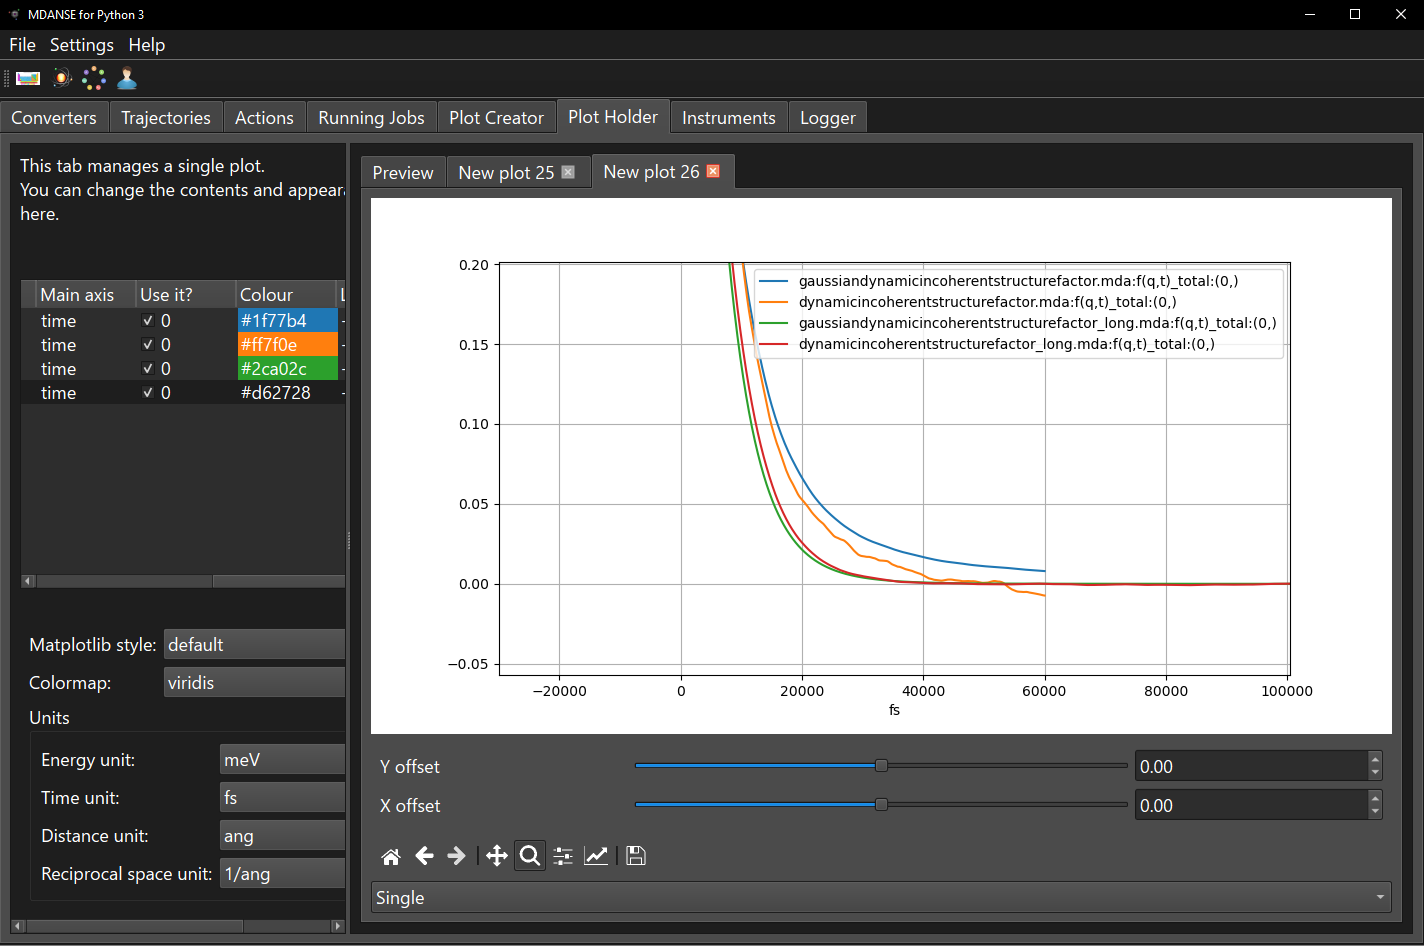
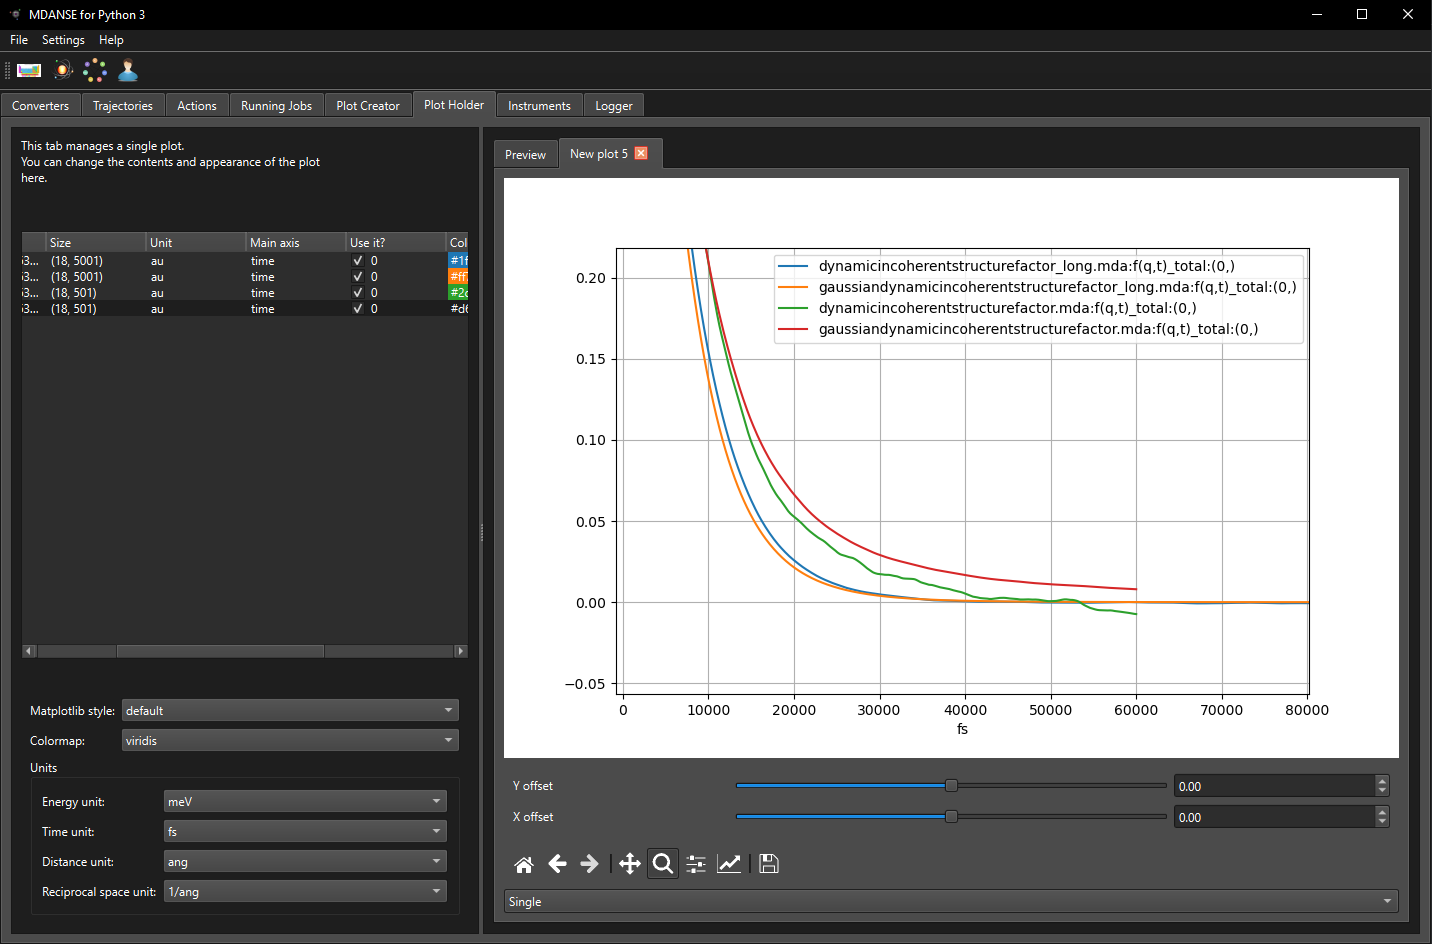
updated screenshots and question 2

diff --git a/tutorials/tutorial3-quasielastic-neutron-scattering/README.md b/tutorials/tutorial3-quasielastic-neutron-scattering/README.md
@@ -161,10 +161,11 @@ $q = 10$.
     <img width="800" src="pictures/cov_comparison.png"/>
 </p>
 
-Even though our first DISF and GDISF results looked OK we can see that now 
+Even though our first DISF and GDISF results looked OK we can see now 
 that they weren't long enough for $q = 10$. Proper convergence testing 
 is a must for these scattering related calculations. 
-Compare the differences for the other values of $q$. We will assume 
+Compare the differences for the other values of $q$ and have a look at 
+how this affected the `s(q,w)` results. We will assume 
 that the `*_long.mda` results are converged and continue with the rest of the 
 tutorial. Plot the `s(q,w)` for the DISF and GDISF calculations and compare the 
 results for different values of $q$.
@@ -173,15 +174,15 @@ results for different values of $q$.
     <img width="800" src="pictures/disf_gdisf_small.png"/>
 </p>
 <p align="center">
+    <img width="800" src="pictures/disf_gdisf_med.png"/>
+</p>
+<p align="center">
     <img width="800" src="pictures/disf_gdisf_large.png"/>
 </p>
 
-**Question 2**: The atoms in our liquid Argon trajectory should behave 
-like particle undergoing brownian motion, looking at the 3D view 
-visually appears to confirm this. Given that the Gaussian approximation 
-is exact for a system of particles undergoing brownian motion why do we 
-still see differences between our DISF and GDISF calculations?
-
+**Question 2**: Visually it looks like the best agreements between the 
+DISF and GDISF are obtained for the smallest and largest values of $q$. 
+Why does GDISF perform well for these values of $q$?
 
 # Answers
 
@@ -191,8 +192,9 @@ For an isotropic monoatomic system of free particles
 ```math
 \langle d^{2}(t) \rangle = \frac{1}{3} \langle \vert \vec{r}(t) - \vec{r}(0) \vert^2 \rangle.
 ```
-By noting that $\vert \vec{r}(t) - \vec{r}(0) \vert^2 = (v t)^2$ where $v$ is the speed for a given
-particle we can then integrate $(v t)^2$ over the Maxwell-Boltzmann distribution so that
+By noting that since free particles move in a straight line, 
+$\vert \vec{r}(t) - \vec{r}(0) \vert^2 = (v t)^2$ where $v$ is the speed for a given
+particle. We can then integrate $(v t)^2$ over the Maxwell-Boltzmann distribution so that
 ```math
 \langle d^{2}(t) \rangle = \frac{t^2}{3} \int_{0}^{\infty} \mathrm{d}v \, v^2 f(v)
 ```
@@ -222,9 +224,13 @@ S_{\mathrm{inc}}(\vec{q}, t) = \frac{1}{\sqrt{2 \pi} q v_{\mathrm{p}}} \exp\left
 
 ## Question 2:
 
-At short time scales the atoms in the liquid Argon trajectory behave 
+As explained earlier the Gaussian approximation is exact for system of 
+free particles and a system of particles undergoing brownian motion.
+At short time scales the atoms in the liquid Argon trajectory behaves 
 like a free particle while at long time scales it will behave like a 
-particle undergoing brownian motion.
+particle undergoing brownian motion. Since these time scales correspond 
+to short (large $q$) and long (small $q$) wavelength dynamics we should 
+expect good agreements between the GDISF and DISF results at these limits.
 
 
 # Further reading
